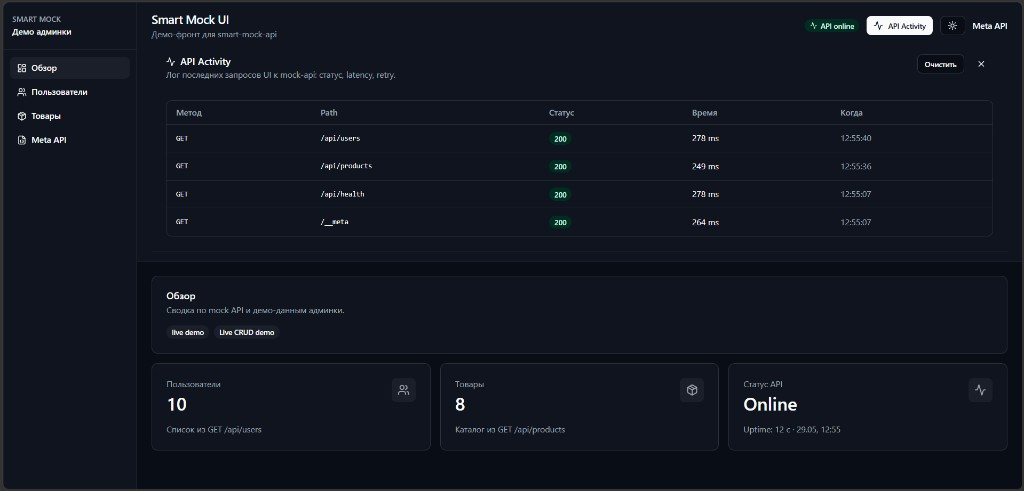
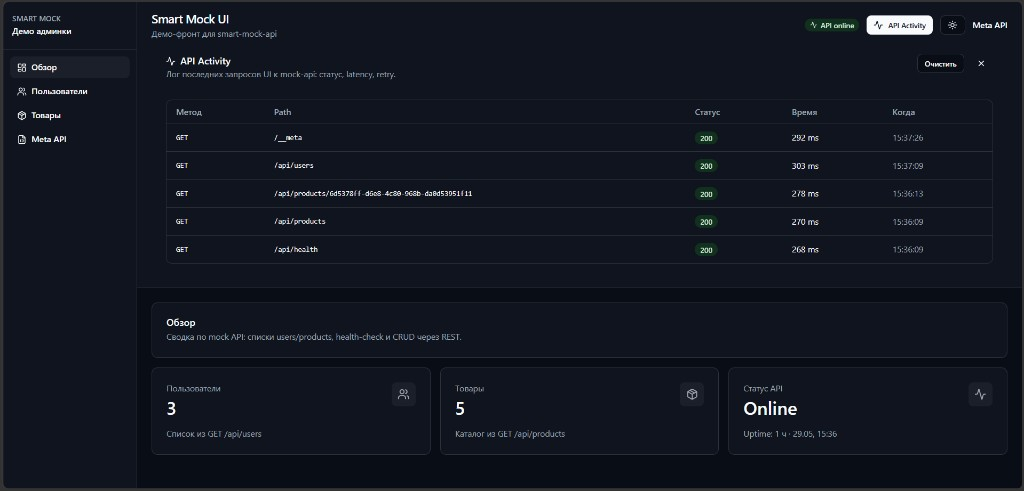
docs: update readme and demo assets

diff --git a/README.md b/README.md
@@ -14,6 +14,7 @@ Schema-driven mock-сервер для фронтенда: эндпoинты в 
 | **UI** | https://smart-mock-ui.vercel.app |
 | **API** | https://smart-mock-api.onrender.com/api/users |
 | **Meta** | https://smart-mock-api.onrender.com/__meta |
+| **OpenAPI** | https://smart-mock-api.onrender.com/openapi.json |
 
 Демо-фронт: [smart-mock-ui](https://github.com/gatzxx/smart-mock-ui) · GitHub: [smart-mock-api](https://github.com/gatzxx/smart-mock-api)
 
@@ -24,6 +25,18 @@ Schema-driven mock-сервер для фронтенда: эндпoинты в 
 ## Зачем
 
 Фронтенд блокируется отсутствием бэкенда, нельзя проверить loading, error и retry. Новый эндпoинт добавляется **только в JSON**, без правки TypeScript. Задержка ответа через `.env` для отработки UX на UI.
+
+## Ограничения runtime
+
+| Ограничение | Поведение |
+|-------------|-----------|
+| **In-memory store** | CRUD-данные (`users`, `products`) хранятся в RAM. Нет PostgreSQL, Redis, файловой персистентности |
+| **Cold start (Render)** | После простоя free-tier инстанс перезапускается. Store и CRUD-записи сбрасываются |
+| **Hot reload** | `SCHEMA_HOT_RELOAD=true` только в dev. В production default `false` (см. `loadConfig`) |
+| **CRUD scope** | POST/PATCH/DELETE только для store-backed сущностей в `schema.json` (сейчас: users, products) |
+| **Auth** | Нет. Mock для локальной разработки и demo |
+
+При hot reload или restart in-memory store **полностью сбрасывается**.
 
 ## Быстрый старт
 
@@ -39,24 +52,54 @@ http://localhost:3000
 docker compose up --build
 ```
 
+## CRUD API
+
+Store-backed entities поддерживают полный цикл:
+
+| Метод | Users | Products |
+|-------|-------|----------|
+| `GET` list | `/api/users` | `/api/products` |
+| `GET` detail | `/api/users/:id` | `/api/products/:id` |
+| `POST` create | `/api/users` → 201 | `/api/products` → 201 |
+| `PATCH` update | `/api/users/:id` → 200 | `/api/products/:id` → 200 |
+| `DELETE` | `/api/users/:id` → 200 | `/api/products/:id` → 200 |
+
+Ошибки мутаций: `{ "error": "string" }` (400/404/500). GET detail enrich: avatar/bio для users, description для products.
+
+```bash
+curl -X POST http://localhost:3000/api/users \
+  -H "Content-Type: application/json" \
+  -d '{"fullName":"Demo","email":"[email redacted]","role":"Engineer"}'
+```
+
+## OpenAPI и Meta
+
+| Endpoint | Описание |
+|----------|----------|
+| `GET /__meta` | Discovery: routes, methods, `schemaVersion`, `openapiPath` |
+| `GET /openapi.json` | OpenAPI 3.1 spec, сгенерирован из `schema.json` |
+
 ## Примеры
 
 ```bash
 curl http://localhost:3000/api/users
 curl http://localhost:3000/api/users/42
 curl http://localhost:3000/__meta
+curl http://localhost:3000/openapi.json
 curl http://localhost:3000/unknown
 ```
 
 ## Конфигурация
 
+Переменные из `.env.example`:
+
 | Переменная | По умолчанию | Описание |
 |------------|--------------|----------|
 | `PORT` | `3000` | Порт HTTP-сервера |
 | `SCHEMA_PATH` | `./schema.json` | Путь к схеме |
-| `RESPONSE_DELAY_MS` | `0` | Задержка ответа (мс), для loading на UI |
+| `RESPONSE_DELAY_MS` | `0` | Задержка ответа (мс, max 30000), для loading на UI |
 | `SCHEMA_HOT_RELOAD` | `true` в dev, `false` в production | Перезагрузка schema.json без restart (store сбрасывается) |
-| `CORS_ORIGIN` | см. `.env.example` | Origins через запятую |
+| `CORS_ORIGIN` | `http://localhost:5173` | Origins через запятую |
 
 ## Добавить эндпoинт
 
@@ -78,7 +121,7 @@ curl http://localhost:3000/unknown
 }
 ```
 
-`GET /api/orders` появится автоматически.
+`GET /api/orders` появится автоматически. CRUD (POST/PATCH/DELETE) требует блок `store` в endpoint.
 
 **Ответы:** `collection` · `object` · Faker: `person.fullName`, shorthand `uuid`, `literal.ok`
 
@@ -87,10 +130,14 @@ curl http://localhost:3000/unknown
 | Команда | Действие |
 |---------|----------|
 | `npm run dev` | Dev-сервер |
-| `npm run check` | typecheck + lint + test |
+| `npm run check` | typecheck + lint + format + test |
 | `npm test` | Unit-тесты |
 | `npm run build` | Сборка |
 | `npm start` | Production |
+
+## Связанные репозитории
+
+- [smart-mock-ui](https://github.com/gatzxx/smart-mock-ui) - React admin demo (CRUD, TanStack Query, Meta UI)
 
 ## Стек
 